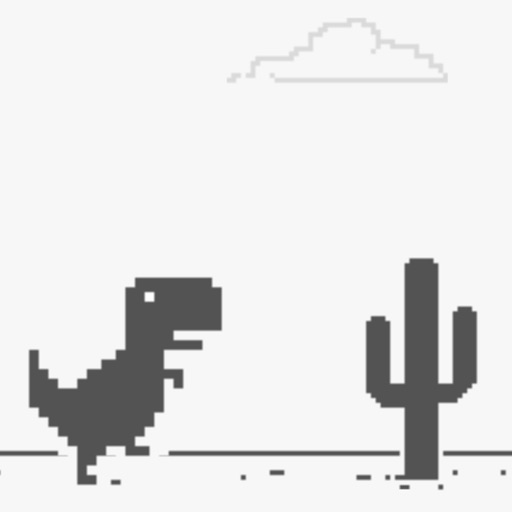
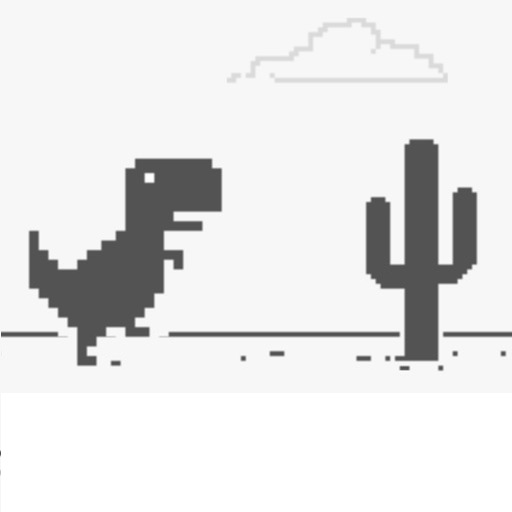
Upgrade Flutter and Flame

Changed region(s): [[0.0, 0.2812, 1.0, 0.9688], [0.6875, 0.25, 0.9375, 0.5625], [0.2188, 0.9375, 0.25, 0.9688]]

diff --git a/lib/game/game.dart b/lib/game/game.dart
@@ -1,9 +1,10 @@
-import 'dart:ui';
+import 'dart:ui' as ui;
 
 import 'package:flame/anchor.dart';
 import 'package:flame/components/text_component.dart';
 import 'package:flame/game.dart';
 import 'package:flame/text_config.dart';
+import 'package:flutter/material.dart';
 import 'package:trexjumper/game/obstacle/obstacle.dart';
 
 import 'collision/utils.dart';
@@ -16,25 +17,26 @@ import 'trex/trex.dart';
 enum GameStatus { playing, waiting, gameOver }
 
 class TRexJumper extends BaseGame {
-  TRexJumper(Size screenSize, {Image spriteImage}) {
+  TRexJumper(ui.Size screenSize, {ui.Image spriteImage}) {
     character = TRex(spriteImage);
     horizon = Horizon(spriteImage);
     gameOverPanel = GameOverPanel(spriteImage);
     scoreText = TextComponent(scoreString, config: TextConfig(fontSize: 22.0));
-    instructionsText =
-        TextComponent(instructionsString, config: TextConfig(fontSize: 18.0));
+    instructionsText = TextComponent(instructionsString,
+        config: TextConfig(fontSize: 18.0, textAlign: TextAlign.center));
 
-    this..add(horizon)..add(character)..add(gameOverPanel);
     this
+      ..add(horizon)
+      ..add(character)
+      ..add(gameOverPanel)
       ..add(instructionsText
-        ..anchor = Anchor.bottomLeft
-        ..x = 15
-        ..y = screenSize.height - 10);
-    this
+//        ..anchor = Anchor.bottomLeft
+        ..x = screenSize.width / 2 - instructionsText.width / 2
+        ..y = screenSize.height - 100)
       ..add(scoreText
-        ..anchor = Anchor.topRight
-        ..x = screenSize.width - 15
-        ..y = 10);
+//        ..anchor = Anchor.topRight
+        ..x = screenSize.width / 2 - scoreText.width / 2
+        ..y = 15);
   }
 
   TRex character;
@@ -141,5 +143,10 @@ class TRexJumper extends BaseGame {
         doGameOver();
       }
     }
+  }
+
+  @override
+  Color backgroundColor() {
+    return Colors.white;
   }
 }
